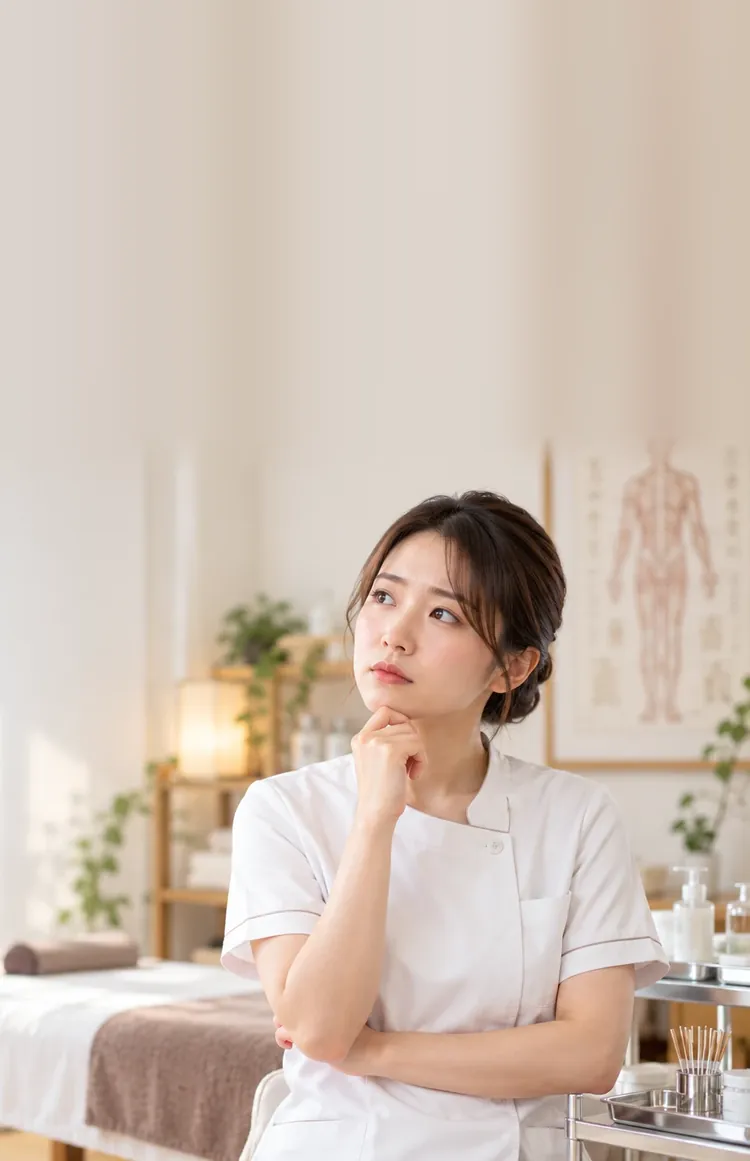
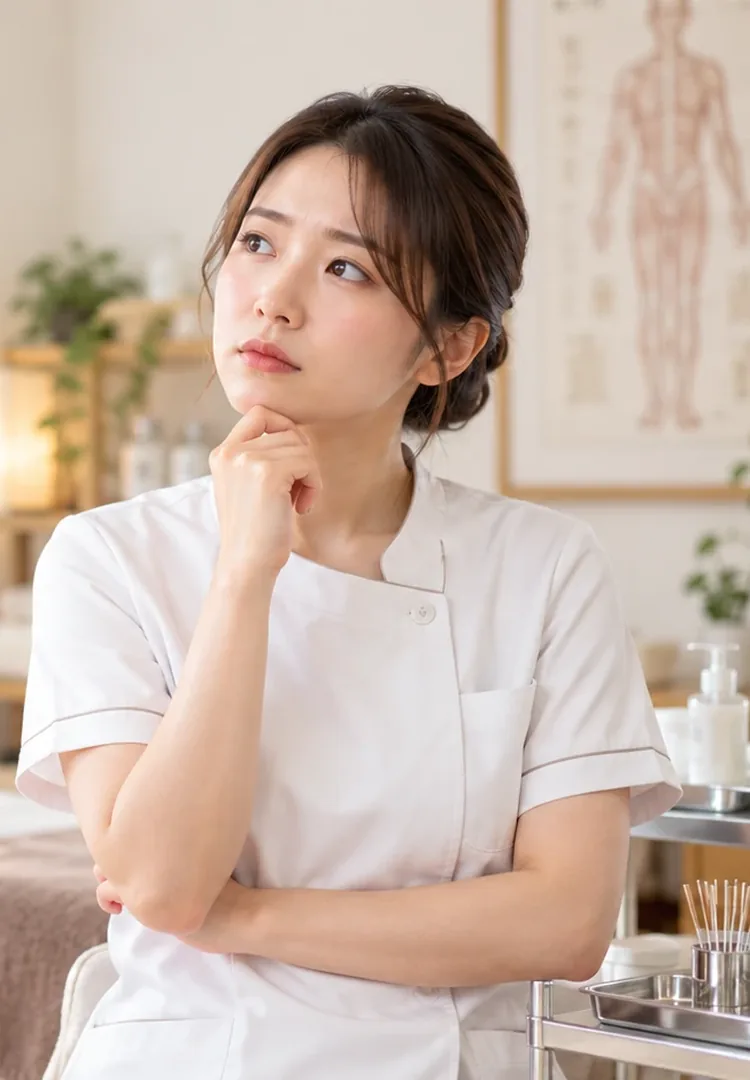
スマホFV：顔は隠さず、文字を体の上に重ねる形に変更
壁を足した縦長画像をやめ、人物中心に縦長で切り出した画像にした。
顔は上に出したまま、文字は下半分に重ねる（下からの淡いグラデーションで読みやすく）。

Claude-Session: https://claude.ai/code/session_01MCnG1St4SqpM9xbMRua3iu

diff --git a/shinkyushi-tenshoku/style.css b/shinkyushi-tenshoku/style.css
@@ -20,10 +20,13 @@ body { padding-bottom: 90px; } /* mt-sticky のぶん */
 .lp-fv__lead { margin: 0 !important; font-size: 16px; line-height: 1.8; }
 .lp-fv__lead b { color: var(--mt-red); }
 
-/* スマホ：縦長のFV画像（上に壁を足したもの）の、壁の部分に文字を入れる */
+/* スマホ：人物を中心に切り出した縦長画像。顔は上に出したまま、文字は下半分（体の上）に重ねる */
 @media (max-width: 599px) {
-  .lp-fv { aspect-ratio: 750 / 1161; padding: 26px 20px;
-    background: url("images/fv-hero-sp.webp") center top / cover no-repeat, #f7f5f2; }
+  .lp-fv { display: flex; flex-direction: column; justify-content: flex-end; aspect-ratio: 750 / 1080; padding: 20px 20px 22px;
+    background:
+      linear-gradient(180deg, rgba(247,245,242,0) 42%, rgba(247,245,242,.88) 60%, rgba(247,245,242,.95) 100%),
+      url("images/fv-hero-sp.webp") center top / cover no-repeat,
+      #f7f5f2; }
 }
 /* PC：画像の左の余白に文字を重ねる */
 @media (min-width: 600px) {

diff --git a/shinkyushi-tenshoku/README.md b/shinkyushi-tenshoku/README.md
@@ -14,7 +14,7 @@
 | `parts.css` | パーツ集の `parts.css` を**無改変**でコピー（41パーツ版） |
 | `style.css` | ページ枠（見本ページと同じ `mt-wrap` / `mt-figure`）、改行の調整（`lp-nw`＝語句の途中で切らない）、v7で専用指定のFV、中央寄せ強調、主CTAの見出し1行 |
 | `images/fv-hero.webp` | FV背景（PC）。考える鍼灸師の画像（1400×788）。左の余白に文字を重ねる |
-| `images/fv-hero-sp.webp` | FV背景（スマホ）。同じ画像の人物側を切り出し、上に壁を足して縦長にしたもの（750×1161）。壁の部分に文字を入れる |
+| `images/fv-hero-sp.webp` | FV背景（スマホ）。同じ画像を人物中心に縦長で切り出したもの（750×1080）。顔は上に出したまま、文字は下半分（体の上）に重ねる |
 | `images/kurohon-banner.webp` | 国試黒本治療家エージェントの公式バナー（600×500）。`mt-banner` でPR表記つき |
 | `images/shinkyushi-nayami.webp` | SECTION1 ①の後の挿絵「もっと鍼を打てる職場がいいかも…」（900×675） |
 | `images/kyujin-3rei.webp` | SECTION2 求人例A/B/Cの比較画像（1200×675）。タップで拡大表示 |
